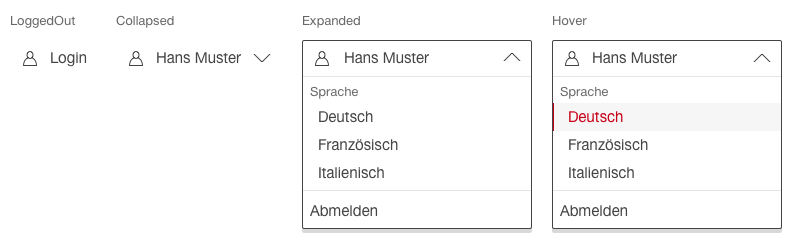
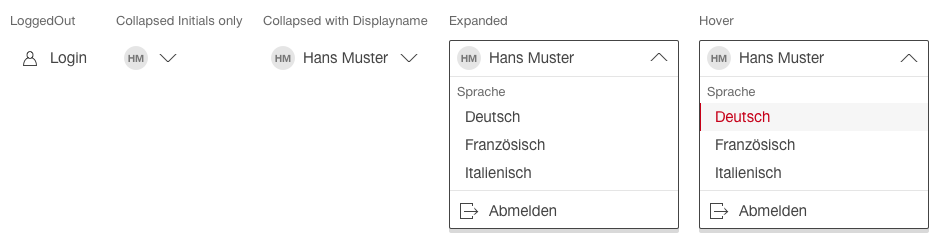
fix: correct styling of usermenu (#48)
Correct the styling of usermenu to match the implemented Angular component.

diff --git a/documentation/components/usermenu/usermenu-de.md b/documentation/components/usermenu/usermenu-de.md
@@ -10,6 +10,7 @@
 * Das Benutzermenü ist immer im Header platziert und darf nur dort eingesetzt werden.
 * Das aufgeklappte Benutzermenü kann durch Klick ausserhalb des Dropdowns geschlossen werden.
 * Der letzte Menüpunkt in der Liste ist immer «Abmelden».
+* Optional können für die Menüeinträge Icons verwendet werden.
 
 
 ## 4. Ausprägungen und Zustände
@@ -24,7 +25,8 @@ Die Komponente hat folgende Zustände:
 
 #### Design Spezifikation
 * [LoggedOut](https://www.sketch.com/s/58b25e4c-bf9c-4f74-973f-503538fcbea2/a/OKeRP8#Inspector)
-* [Collapsed](https://www.sketch.com/s/58b25e4c-bf9c-4f74-973f-503538fcbea2/a/mYPKqz#Inspector)
+* [Collapsed Initials Only](https://www.sketch.com/s/58b25e4c-bf9c-4f74-973f-503538fcbea2/a/qeQ7aPk#Inspector)
+* [Collapsed with Displayname](https://www.sketch.com/s/58b25e4c-bf9c-4f74-973f-503538fcbea2/a/mYPKqz#Inspector)
 * [Expanded](https://www.sketch.com/s/58b25e4c-bf9c-4f74-973f-503538fcbea2/a/DaEwqq#Inspector)
 * [Hover](https://www.sketch.com/s/58b25e4c-bf9c-4f74-973f-503538fcbea2/a/j14rq0#Inspector)
 
@@ -35,7 +37,7 @@ Die Komponente hat folgende Zustände:
 ![Darstellung der Komponente Benutzermenü mit Rollenauswahl](https://raw.githubusercontent.com/sbb-design-systems/design-system-webapp-documentation/master/documentation/components/usermenu/images/Usermenu_Rollenauswahl.png 'class: image')
 
 #### Design Spezifikation
-* [LoggedOut](https://www.sketch.com/s/58b25e4c-bf9c-4f74-973f-503538fcbea2/a/dAgjqZ#Inspector)
+* [Expanded](https://www.sketch.com/s/58b25e4c-bf9c-4f74-973f-503538fcbea2/a/dAgjqZ#Inspector)
 
 #### Code Spezifikation
 * [SBB Angular Component Library](https://sbb-angular.app.sbb.ch/business/components/usermenu)

diff --git a/documentation/components/usermenu/usermenu-en.md b/documentation/components/usermenu/usermenu-en.md
@@ -10,6 +10,7 @@
 * The user menu is always positioned in the header and can only be used there.
 * The extended user menu can be closed by clicking outside of the dropdown.
 * The last menu item in the list is always ‘log out’.
+* Icons can optionally be used in menu items.
 
 
 ## 4. Variants and statuses
@@ -24,7 +25,8 @@ The component has the following statuses:
 
 #### Design specification
 * [LoggedOut](https://www.sketch.com/s/58b25e4c-bf9c-4f74-973f-503538fcbea2/a/OKeRP8#Inspector)
-* [Collapsed](https://www.sketch.com/s/58b25e4c-bf9c-4f74-973f-503538fcbea2/a/mYPKqz#Inspector)
+* [Collapsed Initials Only](https://www.sketch.com/s/58b25e4c-bf9c-4f74-973f-503538fcbea2/a/qeQ7aPk#Inspector)
+* [Collapsed with Displayname](https://www.sketch.com/s/58b25e4c-bf9c-4f74-973f-503538fcbea2/a/mYPKqz#Inspector)
 * [Expanded](https://www.sketch.com/s/58b25e4c-bf9c-4f74-973f-503538fcbea2/a/DaEwqq#Inspector)
 * [Hover](https://www.sketch.com/s/58b25e4c-bf9c-4f74-973f-503538fcbea2/a/j14rq0#Inspector)
 
@@ -35,7 +37,7 @@ The component has the following statuses:
 ![Image of the user menu component with role selection](https://raw.githubusercontent.com/sbb-design-systems/design-system-webapp-documentation/master/documentation/components/usermenu/images/Usermenu_Rollenauswahl.png 'class: image')
 
 #### Design specification
-* [LoggedOut](https://www.sketch.com/s/58b25e4c-bf9c-4f74-973f-503538fcbea2/a/dAgjqZ#Inspector)
+* [Expanded](https://www.sketch.com/s/58b25e4c-bf9c-4f74-973f-503538fcbea2/a/dAgjqZ#Inspector)
 
 #### Code specification
 * [SBB Angular Component Library](https://sbb-angular.app.sbb.ch/business/components/usermenu)
